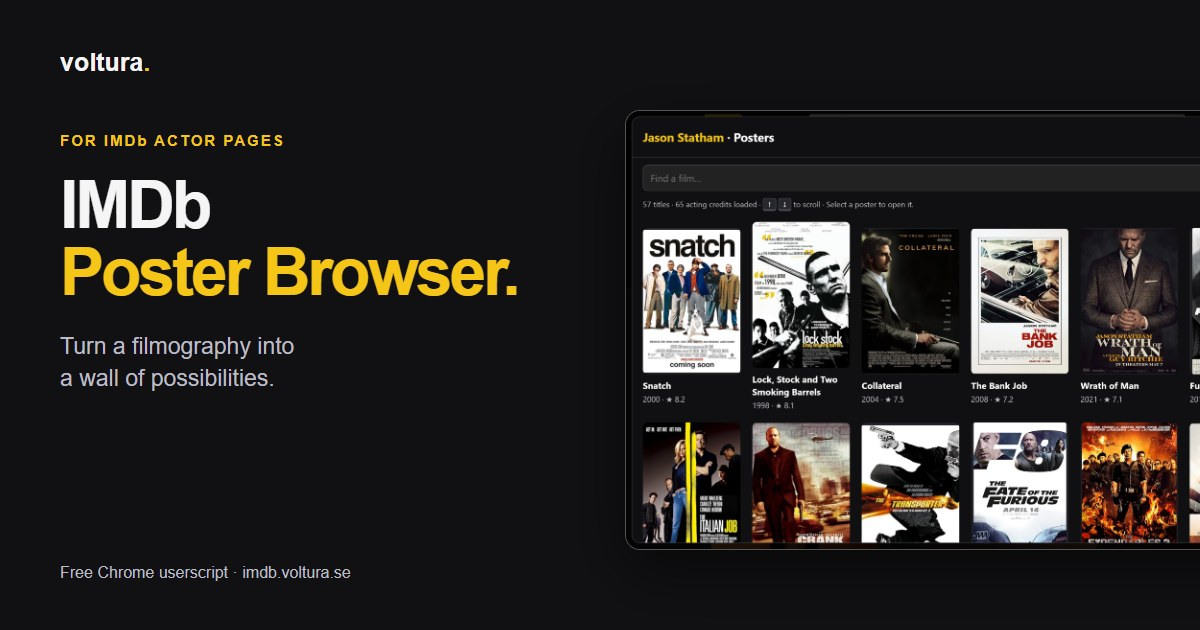
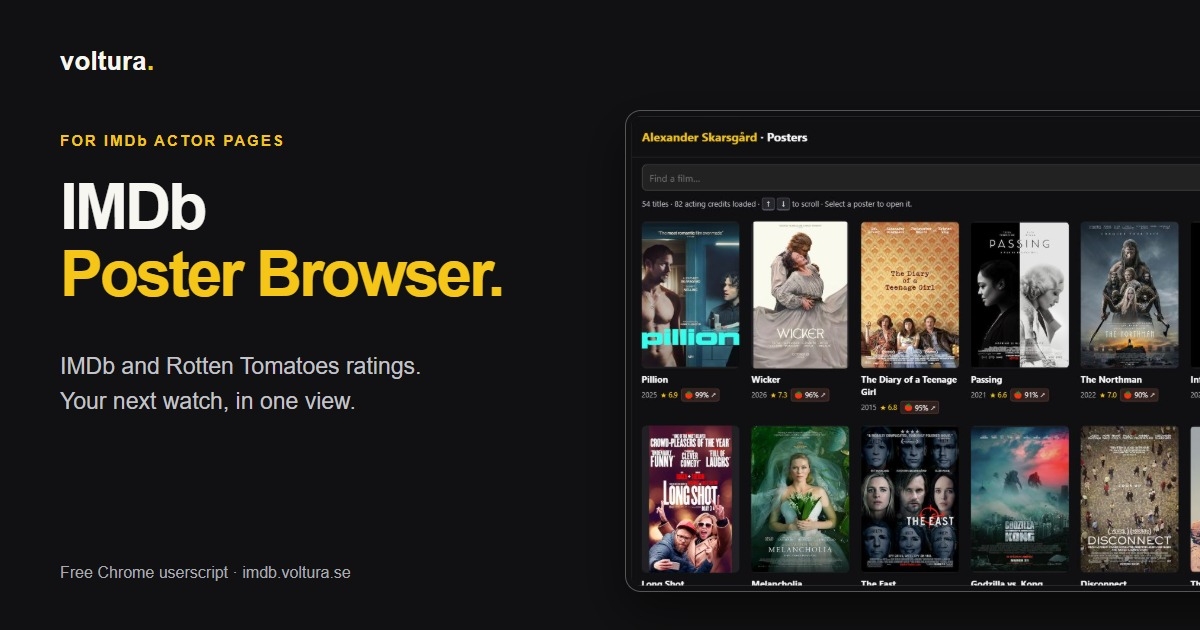
Publish Rotten Tomatoes ratings and refresh product website

diff --git a/imdb-poster-browser.user.js b/imdb-poster-browser.user.js
@@ -1,12 +1,15 @@
 // ==UserScript==
 // @name         IMDb Poster Browser
 // @namespace    voltura.imdb.poster-browser
-// @version      1.2.1
+// @version      1.4.1
 // @description  Browse an actor's film posters in a grid or swipeable viewer without leaving their page.
 // @match        https://www.imdb.com/name/nm*
 // @match        https://imdb.com/name/nm*
 // @run-at       document-idle
-// @grant        none
+// @grant        GM_xmlhttpRequest
+// @grant        GM_getValue
+// @grant        GM_setValue
+// @connect      www.rottentomatoes.com
 // ==/UserScript==
 
 (() => {
@@ -49,7 +52,16 @@
       .card {border:0;background:transparent;padding:0;text-align:left;min-width:0}
       .card img,.placeholder {width:100%;aspect-ratio:2/3;object-fit:contain;background:#202025;border-radius:8px;display:block}
       .card strong {display:block;margin-top:8px;font-size:15px}
-      .card small {color:#bdbdc5;display:block;margin-top:3px}
+      .poster-card {min-width:0;display:flex;flex-direction:column;align-items:stretch}
+      .ratings {display:flex;align-items:center;flex-wrap:wrap;gap:4px 6px;margin-top:5px;color:#aaa;font-size:12px;font-variant-numeric:tabular-nums}
+      .imdb-rating {color:#f5c518;white-space:nowrap}
+      .rt-rating {display:inline-flex;align-items:center;gap:4px;color:#eee;background:#242124;border:1px solid #494149;border-radius:4px;font-size:12px;line-height:1.5;padding:1px 5px;text-decoration:none;white-space:nowrap;font-variant-numeric:tabular-nums}
+      .rt-rating[data-sentiment="fresh"] {background:#30201e;border-color:#684039}
+      .rt-rating[data-sentiment="rotten"] {background:#192a20;border-color:#34583f}
+      .rt-rating:hover {color:#fff;filter:brightness(1.3)}
+      .rt-icon {width:14px;height:14px;flex:none;display:block}
+      #viewer-ratings {display:flex;align-items:center;justify-content:center;flex-wrap:wrap;gap:8px;margin:0 0 8px}
+      #viewer-ratings #meta {margin:0}
       .placeholder {display:flex;flex-direction:column;gap:10px;align-items:center;justify-content:center;text-align:center;padding:15px;color:#aaa;overflow-wrap:anywhere}
       .placeholder .placeholder-title {margin:0;color:#f5f5f5;font-size:clamp(20px,2vw,30px);line-height:1.2}
       .placeholder .placeholder-year {font-size:24px;color:#f5c518}
@@ -85,14 +97,14 @@
         <div class="tools">
           <input id="search" type="search" placeholder="Find a film…" aria-label="Find a film">
           <select id="type" aria-label="Title types"><option value="movie">Movies</option><option value="all">All acting credits</option></select>
-          <select id="sort" aria-label="Sort posters"><option value="new">Newest first</option><option value="old">Oldest first</option><option value="title">Title A–Z</option><option value="rating">Highest rated</option></select>
+          <select id="sort" aria-label="Sort posters"><option value="rating">IMDb rating ↓</option><option value="rt">Rotten Tomatoes rating ↓</option><option value="new">Newest first</option><option value="old">Oldest first</option><option value="title">Title A–Z</option></select>
         </div>
         <div id="message" role="status" aria-live="polite"></div>
         <div id="content">
           <div id="grid" hidden></div>
           <div id="viewer">
             <div id="stage"><button id="prev" type="button" aria-label="Previous poster">‹</button><img id="poster" alt="" draggable="false"><div id="missing" class="placeholder" hidden></div><button id="next" type="button" aria-label="Next poster">›</button></div>
-            <div id="details"><h3 id="title"></h3><p id="meta"></p><p id="role"></p><a id="open" target="_blank" rel="noopener noreferrer">Open movie ↗</a><span id="counter"></span></div>
+            <div id="details"><h3 id="title"></h3><div id="viewer-ratings"><p id="meta"></p><a id="rt" class="rt-rating" target="_blank" rel="noopener noreferrer"></a></div><p id="role"></p><a id="open" target="_blank" rel="noopener noreferrer">Open movie ↗</a><span id="counter"></span></div>
           </div>
         </div>
       </div>
@@ -102,6 +114,102 @@
   const dialog = root.querySelector('dialog');
   let items = [], filtered = [], index = 0, gridMode = true, actorGroups = [];
   let returnFocus = null, savedOverflow = '', loading = false, refreshTimer, loadNotice = '';
+  const rtResults = new Map(), rtQueue = new Map(), rtPending = new Set();
+  let rtActive = 0, rtResortTimer;
+  const rtSearch = t => 'https://www.rottentomatoes.com/search?search=' + encodeURIComponent(t.title);
+  const normalizeTitle = value => value.normalize('NFKD').replace(/\p{M}/gu,'').toLocaleLowerCase().replace(/&/g,'and').replace(/[^\p{L}\p{N}]/gu,'');
+  const rtObserver = new IntersectionObserver(entries => {
+    for (const entry of entries) if (entry.isIntersecting) {
+      rtObserver.unobserve(entry.target);
+      const t = items.find(item => item.id === entry.target.dataset.rtObserveId);
+      if (t) { rtQueue.set(t.id,t); loadRatings(); }
+    }
+  }, {root:$('content'),rootMargin:'150px'});
+  function ratingResult(t) {
+    if (!rtResults.has(t.id)) {
+      try {
+        const cached = GM_getValue('rt:' + t.id, null);
+        if (cached && cached.key === t.title + ':' + t.year + ':' + t.type && cached.expires > Date.now() &&
+            (cached.score === null || (Number.isInteger(cached.score) && cached.score >= 0 && cached.score <= 100)) &&
+            (cached.url === rtSearch(t) || /^https:\/\/www\.rottentomatoes\.com\/(m|tv)\/[a-z0-9_]+\/?$/.test(cached.url))) rtResults.set(t.id,cached);
+      } catch { /* Storage may be unavailable. Keep browsing without it. */ }
+    }
+    return rtResults.get(t.id);
+  }
+  function updateRating(link,t) {
+    const result = ratingResult(t);
+    link.hidden = result?.score == null;
+    link.href = result?.url || rtSearch(t);
+    link.dataset.state = result ? (result.score === null ? 'empty' : 'rated') : 'loading';
+    const sentiment = result?.score == null ? '' : result.score >= 60 ? 'fresh' : 'rotten';
+    link.dataset.sentiment = sentiment;
+    link.replaceChildren();
+    if (sentiment) {
+      const icon = document.createElementNS('http://www.w3.org/2000/svg','svg');
+      icon.classList.add('rt-icon');icon.setAttribute('viewBox','0 0 24 24');icon.setAttribute('aria-hidden','true');
+      icon.innerHTML = sentiment === 'fresh'
+        ? '<path fill="#fa3210" d="M12 6C3 2-1 11 3 18c3 6 15 6 18 0 4-7 0-16-9-12Z"/><path fill="#009b36" d="m12 7-8 1 4-4-2-2 5 1 2-3 2 1-1 3 5-1-2 4 4 2-7-1-2 4Z"/>'
+        : '<path fill="#0ac855" d="M10 8C5 4 9-1 13 1s-1 7 2 8 4-7 7-4-5 6-4 8 7 1 5 5-7-3-9-1 1 7-3 7-1-7-4-7-5 5-7 1 6-4 6-7-7-2-6-5 7-1 10 2Z"/>';
+      const score = document.createElement('span');score.textContent=result.score+'% ↗';
+      link.append(icon,score);
+    }
+    const label = sentiment ? 'Rotten Tomatoes: ' + result.score + '% · ' + (sentiment === 'fresh' ? 'Fresh' : 'Rotten') + ' · Tomatometer critic score for ' + t.title : 'Rotten Tomatoes: ' + (result ? 'score unavailable' : 'loading score') + ' for ' + t.title;
+    link.title = label + (sentiment ? (sentiment === 'fresh' ? ' (at least 60% positive reviews)' : ' (less than 60% positive reviews)') : '');
+    link.setAttribute('aria-label',label + ' (opens in a new tab)');
+  }
+  function bindRating(link,t) {
+    link.dataset.rtId = t.id;
+    updateRating(link,t);
+    if (!ratingResult(t)) {
+      link.parentElement.dataset.rtObserveId = t.id;
+      rtObserver.observe(link.parentElement);
+    }
+  }
+  function findRating(html,t) {
+    const doc = new DOMParser().parseFromString(html,'text/html');
+    const movie = ['movie','tvMovie','short','video'].includes(t.type);
+    const series = ['tvSeries','tvMiniSeries'].includes(t.type);
+    const matches = [...doc.querySelectorAll('search-page-media-row')].filter(row => {
+      const link = row.querySelector('a[slot="title"]');
+      const url = link?.getAttribute('href') || '';
+      return (movie ? /^https:\/\/www\.rottentomatoes\.com\/m\/[a-z0-9_]+\/?$/.test(url) : series && /^https:\/\/www\.rottentomatoes\.com\/tv\/[a-z0-9_]+\/?$/.test(url)) &&
+        normalizeTitle(link.textContent.trim()) === normalizeTitle(t.title) && !!t.year &&
+        String(t.year) === row.getAttribute(movie ? 'release-year' : 'start-year');
+    });
+    if (matches.length !== 1) return {score:null,url:rtSearch(t)};
+    const row = matches[0], raw = row.getAttribute('tomatometer-score');
+    const score = raw !== null && /^\d{1,3}$/.test(raw) && Number(raw) <= 100 ? Number(raw) : null;
+    return {score,url:row.querySelector('a[slot="title"]').getAttribute('href')};
+  }
+  async function loadRatings() {
+    while (dialog.open && rtActive < 2 && rtQueue.size) {
+      const [id,t] = rtQueue.entries().next().value;
+      rtQueue.delete(id);
+      if (ratingResult(t) || rtPending.has(id) || ($('sort').value !== 'rt' && ![...root.querySelectorAll('[data-rt-id]')].some(link => link.dataset.rtId === id && link.parentElement.getClientRects().length))) continue;
+      rtPending.add(id);
+      rtActive++;
+      (async () => {
+        let result;
+        try {
+          const html = await new Promise((resolve,reject) => {
+            GM_xmlhttpRequest({method:'GET',url:rtSearch(t),anonymous:true,timeout:15000,
+              onload:response => response.status === 200 ? resolve(response.responseText) : reject(new Error('Rating unavailable')),
+              onerror:reject,ontimeout:reject,onabort:reject});
+          });
+          result = {...findRating(html,t),key:t.title + ':' + t.year + ':' + t.type,expires:Date.now()+86400000};
+          try { GM_setValue('rt:' + id,result); } catch { /* Cache is optional. */ }
+        } catch { result = {score:null,url:rtSearch(t)}; }
+        rtResults.set(id,result);
+        for (const link of root.querySelectorAll('[data-rt-id]')) if (link.dataset.rtId === id) updateRating(link,t);
+        if (dialog.open && $('sort').value === 'rt') {
+          clearTimeout(rtResortTimer);
+          rtResortTimer = setTimeout(() => {
+            if (dialog.open && $('sort').value === 'rt') applyFilters(filtered[index]?.id);
+          },150);
+        }
+      })().finally(() => { rtPending.delete(id); rtActive--; loadRatings(); });
+    }
+  }
   const imageUrl = (url, width=700) => {
     if (!url) return '';
     try {
@@ -161,7 +269,8 @@
     const query = $('search').value.trim().toLocaleLowerCase();
     filtered = items.filter(t => ($('type').value==='all' || ['movie','tvMovie'].includes(t.type)) && t.title.toLocaleLowerCase().includes(query));
     const sort = $('sort').value;
-    filtered.sort((a,b)=>sort==='title'?a.title.localeCompare(b.title):sort==='rating'?((Number(b.rating)||0)-(Number(a.rating)||0) || (Number(b.year)||0)-(Number(a.year)||0)):sort==='old'?(Number(a.year)||9999)-(Number(b.year)||9999):(Number(b.year)||0)-(Number(a.year)||0));
+    const byImdb = (a,b) => (Number(b.rating)||0)-(Number(a.rating)||0) || (Number(b.year)||0)-(Number(a.year)||0) || a.title.localeCompare(b.title);
+    filtered.sort((a,b)=>sort==='title'?a.title.localeCompare(b.title):sort==='rt'?((ratingResult(b)?.score ?? -1)-(ratingResult(a)?.score ?? -1) || byImdb(a,b)):sort==='rating'?byImdb(a,b):sort==='old'?(Number(a.year)||9999)-(Number(b.year)||9999):(Number(b.year)||0)-(Number(a.year)||0));
     index = Math.max(0, filtered.findIndex(t=>t.id===keepId));
     render();
   }
@@ -173,11 +282,17 @@
     return element;
   }
   function render() {
+    rtObserver.disconnect();
+    rtQueue.clear();
     $('grid').hidden = !gridMode;
     $('viewer').hidden = gridMode || !filtered.length;
     $('view').textContent = gridMode ? 'Single poster' : 'Poster grid';
     $('view').setAttribute('aria-pressed',String(gridMode));
     $('message').textContent = filtered.length + ' titles · ' + items.length + ' acting credits loaded' + (loading ? ' · Loading more credits automatically…' : loadNotice) + (filtered.length ? ' · ' : ' · No matching titles.');
+    if ($('sort').value === 'rt') {
+      const checked = filtered.filter(t=>ratingResult(t)).length;
+      if (checked < filtered.length) $('message').append('Loading RT ratings ' + checked + '/' + filtered.length + ' · ');
+    }
     if (filtered.length) {
       for (const arrow of (gridMode ? ['↑','↓'] : ['←','→'])) {
         const key = document.createElement('kbd'); key.textContent=arrow; $('message').append(key, ' ');
@@ -187,6 +302,7 @@
     if (gridMode) {
       const fragment = document.createDocumentFragment();
       filtered.forEach((t,i)=>{
+        const card = document.createElement('div'); card.className='poster-card';
         const b = document.createElement('button'); b.type='button'; b.className='card';
         b.setAttribute('aria-label','View poster: '+t.title);
         if(t.image) {
@@ -194,9 +310,12 @@
           img.addEventListener('error',()=>{img.hidden=true;const p=document.createElement('span');p.className='placeholder';b.prepend(fillPlaceholder(p,t));},{once:true}); b.append(img);
         } else { const p=document.createElement('span');p.className='placeholder';b.append(fillPlaceholder(p,t)); }
         const title=document.createElement('strong');title.textContent=t.title;b.append(title);
-        const meta=document.createElement('small');meta.textContent=[t.year,t.rating?'★ '+t.rating:''].filter(Boolean).join(' · ');b.append(meta);
+        const meta=document.createElement('div');meta.className='ratings';
+        if(t.year) {const year=document.createElement('span');year.textContent=t.year;meta.append(year);}
+        if(t.rating) {const imdb=document.createElement('span');imdb.className='imdb-rating';imdb.textContent='★ '+t.rating;imdb.title='IMDb rating: '+t.rating+' / 10';meta.append(imdb);}
         b.addEventListener('click',()=>{index=i;gridMode=false;render();$('content').scrollTop=0;($('prev').disabled?$('close'):$('prev')).focus();});
-        fragment.append(b);
+        const rt = document.createElement('a');rt.className='rt-rating';rt.target='_blank';rt.rel='noopener noreferrer';
+        meta.append(rt);card.append(b,meta);fragment.append(card);bindRating(rt,t);
       });
       $('grid').replaceChildren(fragment);
     } else if(filtered.length) {
@@ -205,12 +324,17 @@
       $('title').textContent=t.title;
       $('meta').textContent=[t.year,t.typeText,t.rating?'★ '+t.rating:'',t.upcoming?'Upcoming':''].filter(Boolean).join(' · ');
       $('role').textContent=t.role;
+      bindRating($('rt'),t);
       $('open').href='https://www.imdb.com/title/'+t.id+'/';
       $('counter').textContent=(index+1)+' / '+filtered.length;
       $('poster').hidden=!t.image;$('missing').hidden=!!t.image;
       if(t.image) { $('poster').src=t.image; $('poster').alt=t.title+' poster'; }
       $('prev').disabled=index===0;$('next').disabled=index===filtered.length-1;
       const next=filtered[index+1];if(next?.image){const preload=new Image();preload.src=next.image;}
+    }
+    if ($('sort').value === 'rt') {
+      for (const t of filtered) if (!ratingResult(t)) rtQueue.set(t.id,t);
+      loadRatings();
     }
   }
   function step(delta) {if(gridMode||!filtered.length)return; index=Math.min(filtered.length-1,Math.max(0,index+delta));render();}
@@ -220,6 +344,7 @@
     collect();$('search').value='';applyFilters(id);
     if(id&&!filtered.some(t=>t.id===id)){$('type').value='all';applyFilters(id);}
     if(!dialog.open){savedOverflow=document.documentElement.style.overflow;document.documentElement.style.overflow='hidden';dialog.showModal();}
+    loadRatings();
     $('close').focus();
     loadNotice='';loadCredits();
   }
@@ -234,7 +359,7 @@
   }
   $('launch').addEventListener('click',()=>open());
   $('close').addEventListener('click',()=>dialog.close());
-  dialog.addEventListener('close',()=>{document.documentElement.style.overflow=savedOverflow;returnFocus?.focus?.();});
+  dialog.addEventListener('close',()=>{rtObserver.disconnect();rtQueue.clear();clearTimeout(rtResortTimer);document.documentElement.style.overflow=savedOverflow;returnFocus?.focus?.();});
   dialog.addEventListener('click',e=>{if(e.target===dialog){const r=dialog.getBoundingClientRect();if(e.clientX<r.left||e.clientX>r.right||e.clientY<r.top||e.clientY>r.bottom)dialog.close();}});
   $('view').addEventListener('click',()=>{gridMode=!gridMode;render();});
   $('search').addEventListener('input',()=>applyFilters());

diff --git a/index.html b/index.html
@@ -3,7 +3,7 @@
 <head>
   <meta charset="utf-8">
   <meta name="viewport" content="width=device-width,initial-scale=1">
-  <meta name="description" content="Turn an IMDb filmography into a wall of movie posters. A free Voltura userscript for Chrome and Tampermonkey.">
+  <meta name="description" content="Browse IMDb film posters with IMDb and Rotten Tomatoes ratings. Sort by either score with this free Voltura userscript for Chrome and Tampermonkey.">
   <meta name="theme-color" content="#111113">
   <link rel="canonical" href="https://imdb.voltura.se/">
   <title>IMDb Poster Browser — Voltura</title>
@@ -13,18 +13,18 @@
   <meta property="og:type" content="website">
   <meta property="og:site_name" content="Voltura">
   <meta property="og:title" content="IMDb Poster Browser — Voltura">
-  <meta property="og:description" content="Turn an actor’s IMDb page into a wall of movie posters. Browse the grid, sort by rating, and discover what to watch next. Free Chrome userscript.">
+  <meta property="og:description" content="Turn an actor’s IMDb page into a wall of movie posters. Compare IMDb and Rotten Tomatoes ratings, sort by either score, and discover what to watch next. Free Chrome userscript.">
   <meta property="og:url" content="https://imdb.voltura.se/">
-  <meta property="og:image" content="https://imdb.voltura.se/assets/social-card.jpg">
+  <meta property="og:image" content="https://imdb.voltura.se/assets/social-card.jpg?v=1.4.1">
   <meta property="og:image:width" content="1200">
   <meta property="og:image:height" content="630">
   <meta property="og:image:type" content="image/jpeg">
-  <meta property="og:image:alt" content="IMDb Poster Browser by Voltura, with a preview of an actor’s films sorted by highest rating.">
+  <meta property="og:image:alt" content="IMDb Poster Browser by Voltura, with an actor’s film posters, IMDb scores, and Rotten Tomatoes critic ratings.">
   <meta name="twitter:card" content="summary_large_image">
   <meta name="twitter:title" content="IMDb Poster Browser — Voltura">
-  <meta name="twitter:description" content="Turn an actor’s IMDb page into a wall of movie posters. Free Chrome userscript with a poster grid and rating sorting.">
-  <meta name="twitter:image" content="https://imdb.voltura.se/assets/social-card.jpg">
-  <meta name="twitter:image:alt" content="IMDb Poster Browser by Voltura, with a preview of an actor’s films sorted by highest rating.">
+  <meta name="twitter:description" content="Browse an actor’s movie posters with IMDb and Rotten Tomatoes ratings. Free Chrome userscript with sorting by either score.">
+  <meta name="twitter:image" content="https://imdb.voltura.se/assets/social-card.jpg?v=1.4.1">
+  <meta name="twitter:image:alt" content="IMDb Poster Browser by Voltura, with an actor’s film posters, IMDb scores, and Rotten Tomatoes critic ratings.">
   <style>
     :root{color-scheme:dark;--bg:#111113;--panel:#1c1c20;--muted:#aaaab3;--yellow:#f5c518;--line:#343438;font:17px/1.65 system-ui,sans-serif;color:#f7f6f1;background:var(--bg)}
     *{box-sizing:border-box}html{scroll-behavior:smooth;scrollbar-color:#696970 var(--bg)}body{margin:0}a{color:inherit;text-underline-offset:5px}button{font:inherit;cursor:pointer}a:focus-visible,button:focus-visible{outline:3px solid var(--yellow);outline-offset:5px}img{max-width:100%;height:auto;display:block}::selection{background:var(--yellow);color:#111}
@@ -43,15 +43,15 @@
       <section class="hero" aria-labelledby="hero-title">
         <p class="eyebrow">IMDb Poster Browser · For IMDb actor pages</p>
         <h1 id="hero-title">A filmography.<br>A wall of <span>possibilities.</span></h1>
-        <p class="intro">Turn an <strong>actor’s IMDb page</strong> into a wall of movie posters. Open an actor’s page, click <strong>Browse posters</strong>, and explore their films in a grid or one poster at a time.</p>
+        <p class="intro">Turn an <strong>actor’s IMDb page</strong> into a wall of movie posters. Compare IMDb and Rotten Tomatoes ratings, then explore their films in a grid or one poster at a time.</p>
         <div class="actions"><a class="button" href="#install">Add to Chrome <span aria-hidden="true">↓</span></a><a href="https://github.com/voltura/voltura-imdb-poster-browser-skin/blob/main/imdb-poster-browser.user.js">View the script ↗</a></div>
-        <p class="subtle">Free Chrome userscript · Requires Tampermonkey · Works on IMDb actor pages</p>
+        <p class="subtle">Version 1.4.1 · Free Chrome userscript · Requires Tampermonkey</p>
       </section>
-      <figure class="preview"><img src="assets/poster-browser.png" alt="IMDb Poster Browser showing Jason Statham’s films sorted by highest rating, with all 65 acting credits loaded." width="3775" height="1825" fetchpriority="high"><figcaption><span>IMDb Poster Browser on an actor’s page.</span><span>Posters first. Details one click away.</span></figcaption></figure>
+      <figure class="preview"><img src="assets/poster-browser.png?v=1.4.1" alt="Alexander Skarsgård’s film posters sorted by Rotten Tomatoes rating, with compact IMDb scores and red Fresh tomato icons." width="1499" height="793" fetchpriority="high"><figcaption><span>Alexander Skarsgård’s films, sorted by Rotten Tomatoes rating.</span><span>IMDb and critic scores, side by side.</span></figcaption></figure>
       <section class="features" aria-label="Features">
         <article><span class="number">01 / EXPLORE</span><h3>The bigger picture</h3><p>See films together in a poster grid, or browse one at a time with arrow keys and swipes. Open any title on IMDb for more.</p></article>
-        <article><span class="number">02 / FIND</span><h3>Your next watch</h3><p>Search by title, filter acting credits, and sort by year, name, or highest rating. Remaining acting credits load automatically when you open the browser.</p></article>
-        <article><span class="number">03 / FEEL AT HOME</span><h3>Made for movie browsing</h3><p>A dark interface with IMDb yellow, a themed scrollbar, and clear title and year placeholders when a poster is missing.</p></article>
+        <article><span class="number">02 / FIND</span><h3>Your next watch</h3><p>Highest IMDb rating comes first by default. Sort by Rotten Tomatoes rating, year, or title, and search or filter acting credits. Remaining credits load automatically.</p></article>
+        <article><span class="number">03 / COMPARE</span><h3>Two scores. One glance.</h3><p>Compact Rotten Tomatoes links sit beside IMDb scores. A red tomato means Fresh (60% or higher); a green splat means Rotten (below 60%). Missing scores stay hidden. Select a critic score to open Rotten Tomatoes.</p></article>
       </section>
       <section class="install" id="install" aria-labelledby="install-title">
         <div class="install-intro"><p class="eyebrow">Get started</p><h2 id="install-title">Your browser.<br>A better view.</h2><p>Install Tampermonkey once, then add the script. You’ll find a new <strong>Browse posters</strong> button on IMDb actor pages.</p><a class="subtle" href="https://github.com/voltura/voltura-imdb-poster-browser-skin#readme">Read the full guide ↗</a></div>
@@ -59,12 +59,12 @@
           <li><h3>Install Tampermonkey</h3><p>Add <a href="https://chromewebstore.google.com/detail/tampermonkey/dhdgffkkebhmkfjojejmpbldmpobfkfo">Tampermonkey from the Chrome Web Store</a>.</p></li>
           <li><h3>Allow user scripts</h3><p>Type <code>chrome://extensions</code> in Chrome’s address bar. Find Tampermonkey, open <strong>Details</strong>, and enable <strong>Allow User Scripts</strong>.</p></li>
           <li><h3>Copy, paste, save</h3><p>Copy the script below. Open Tampermonkey from Chrome’s Extensions menu and select <strong>Create a new script…</strong>. Replace all the example code with the copied script, then press <kbd>Ctrl</kbd> + <kbd>S</kbd>.</p><button class="button" id="copy" type="button">Copy userscript <span aria-hidden="true">↗</span></button><span id="copy-status" role="status" aria-live="polite"></span><a class="subtle" href="imdb-poster-browser.user.js" download>Download the script instead</a></li>
-          <li><h3>Go exploring</h3><p>Open or refresh an actor’s IMDb page and click <strong>Browse posters</strong> in the bottom-right corner. The poster grid opens by default. Select any poster to view it on its own.</p></li>
+          <li><h3>Go exploring</h3><p>Allow access to <strong>www.rottentomatoes.com</strong> if Tampermonkey asks, then open or refresh an actor’s IMDb page and click <strong>Browse posters</strong>. The grid opens with the highest IMDb ratings first. Select a poster to view it on its own.</p></li>
         </ol>
       </section>
-      <aside class="help">Can’t see the button? Check that the script is enabled, Allow User Scripts is on, and Tampermonkey can run on IMDb. Refresh the actor’s page. <a href="https://www.tampermonkey.net/faq.php#Q209">Permission help ↗</a></aside>
+      <aside class="help"><h3>Already installed? Update your existing script.</h3><p>Copy the latest script above, open your existing IMDb Poster Browser script in Tampermonkey, replace its contents, and save with <kbd>Ctrl</kbd> + <kbd>S</kbd>. Keep only one copy enabled, then refresh IMDb.</p><p>Rotten Tomatoes ratings load as posters come into view and are cached for 24 hours. Sorting by Rotten Tomatoes loads ratings for all matching titles; progress appears above the posters.</p><p>Can’t see the button? Check that the script is enabled, Allow User Scripts is on, and Tampermonkey can run on IMDb. Refresh the actor’s page. <a href="https://www.tampermonkey.net/faq.php#Q209">Permission help ↗</a></p></aside>
     </main>
-    <footer><p>By <a href="https://voltura.se/">Voltura</a>. Independent of IMDb and Tampermonkey. Film information and poster artwork come from IMDb. The script uses credits available on the page; IMDb changes may affect it.</p><a href="https://github.com/voltura/voltura-imdb-poster-browser-skin">Source on GitHub ↗</a></footer>
+    <footer><p>By <a href="https://voltura.se/">Voltura</a>. Independent of IMDb, Rotten Tomatoes, and Tampermonkey. Film information and poster artwork come from IMDb; critic scores come from Rotten Tomatoes. Changes to either site may affect the script.</p><a href="https://github.com/voltura/voltura-imdb-poster-browser-skin">Source on GitHub ↗</a></footer>
   </div>
   <script>
     document.getElementById('copy').addEventListener('click', async () => {
@@ -72,7 +72,7 @@
       const status = document.getElementById('copy-status');
       button.disabled = true;
       try {
-        const response = await fetch('imdb-poster-browser.user.js');
+        const response = await fetch('imdb-poster-browser.user.js', {cache:'no-store'});
         if (!response.ok) throw new Error('Script unavailable');
         await navigator.clipboard.writeText(await response.text());
         status.textContent = 'Copied! Paste it into a new Tampermonkey script.';

diff --git a/README.md b/README.md
@@ -19,15 +19,16 @@ If the button does not appear, check that Tampermonkey and the script are enable
 
 - The **Poster grid** opens by default. Use **↑** / **↓** to scroll, or scroll normally. Select a poster to open it on its own.
 - In the single-poster view, use **←** / **→**, the on-screen arrows, or swipe to browse. **Home** and **End** jump to the first and last title.
-- Search by title, choose **Movies** or **All acting credits**, and sort by newest, oldest, title, or **Highest rated**. Unrated titles appear last when sorting by rating.
+- Search by title, choose **Movies** or **All acting credits**, and sort by newest, oldest, title, **IMDb rating ↓**, or **Rotten Tomatoes rating ↓**. Highest IMDb rating is the default. Unrated titles appear last when sorting by rating, including films with a 0% RT score above those without a score.
 - Posters that are missing or fail to load show the title and year instead.
+- Compact Rotten Tomatoes score links sit beside the year and IMDb score below posters, with a red tomato for **Fresh** (60% or higher) and a green splat for **Rotten** (below 60%). Hover for the full meaning. Links appear only when a critic score is available. Ratings normally load as posters come into view and are cached for 24 hours. Choosing **Rotten Tomatoes rating ↓** loads ratings for all matching titles and updates their order as results arrive; progress appears above the posters. Matches require the same title and release year.
 - Remaining acting credits load automatically when you open the poster browser. Progress appears above the posters.
 - Click **Open movie** to open the title's IMDb page in a new tab. Press **Esc** or click **×** to close the browser.
 
-The script uses the acting credits currently available on the IMDb page. It runs on actor/person pages (`imdb.com/name/nm…`). IMDb page changes may affect it.
+The script uses the acting credits currently available on the IMDb page. It runs on actor/person pages (`imdb.com/name/nm…`). Tampermonkey also requests access to `www.rottentomatoes.com` to retrieve critic scores, without an API key. IMDb or Rotten Tomatoes page changes may affect it.
 
 ## Update
 
-Copy the latest contents of [imdb-poster-browser.user.js](imdb-poster-browser.user.js), replace the code in your existing Tampermonkey script, save with **Ctrl+S**, and refresh IMDb.
+Copy the latest contents of [imdb-poster-browser.user.js](imdb-poster-browser.user.js), replace the code in your existing Tampermonkey script, save with **Ctrl+S**, and refresh IMDb. Keep only one copy enabled. Allow access to `www.rottentomatoes.com` if Tampermonkey asks.
 
-This project is independent of IMDb and Tampermonkey. Poster images and title information come from IMDb.
+This project is independent of IMDb, Rotten Tomatoes, and Tampermonkey. Poster images and title information come from IMDb; critic scores come from Rotten Tomatoes.
